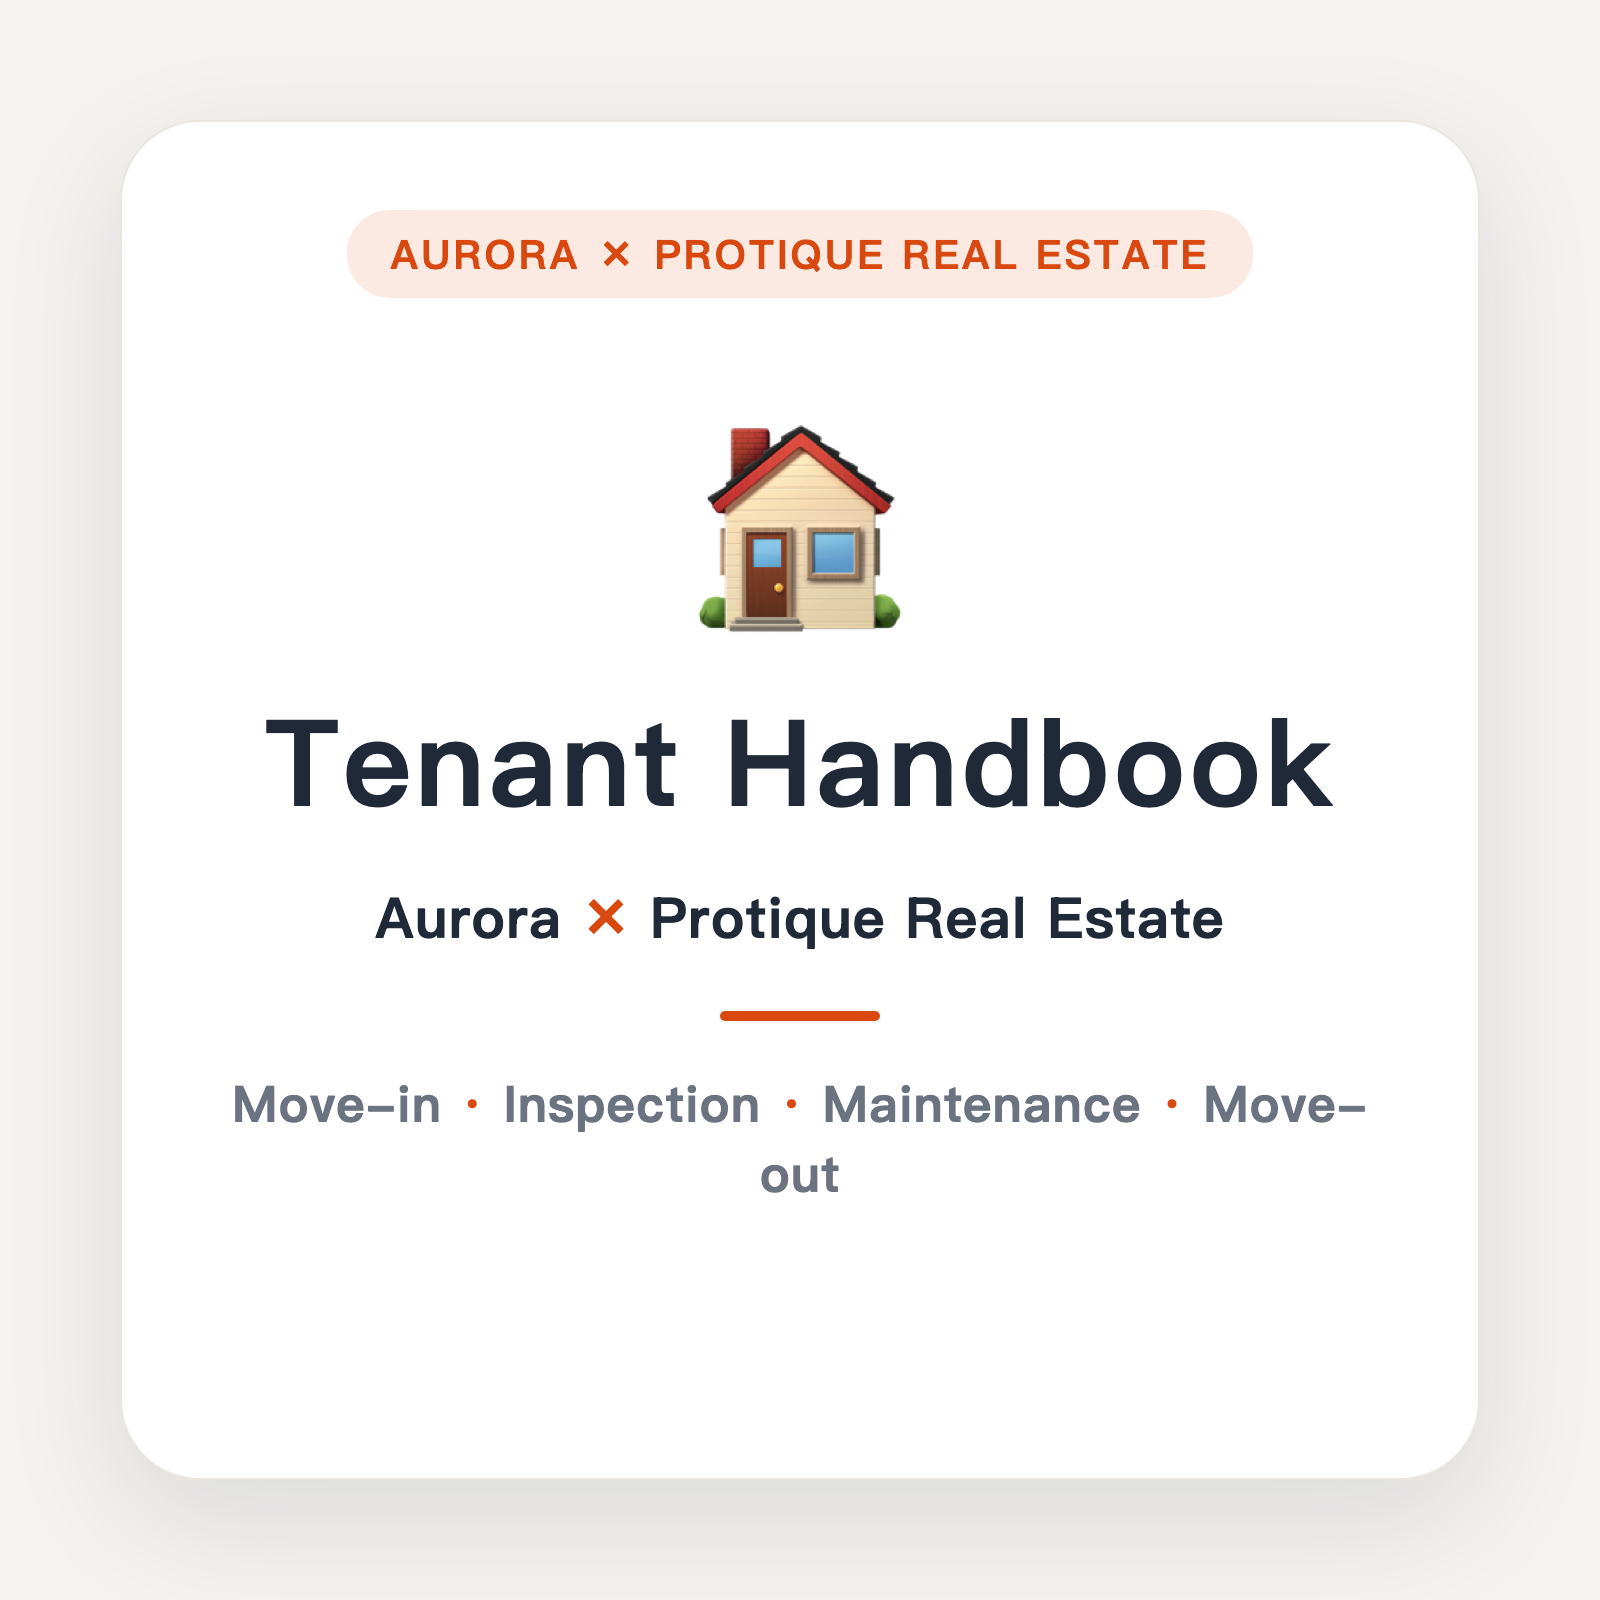
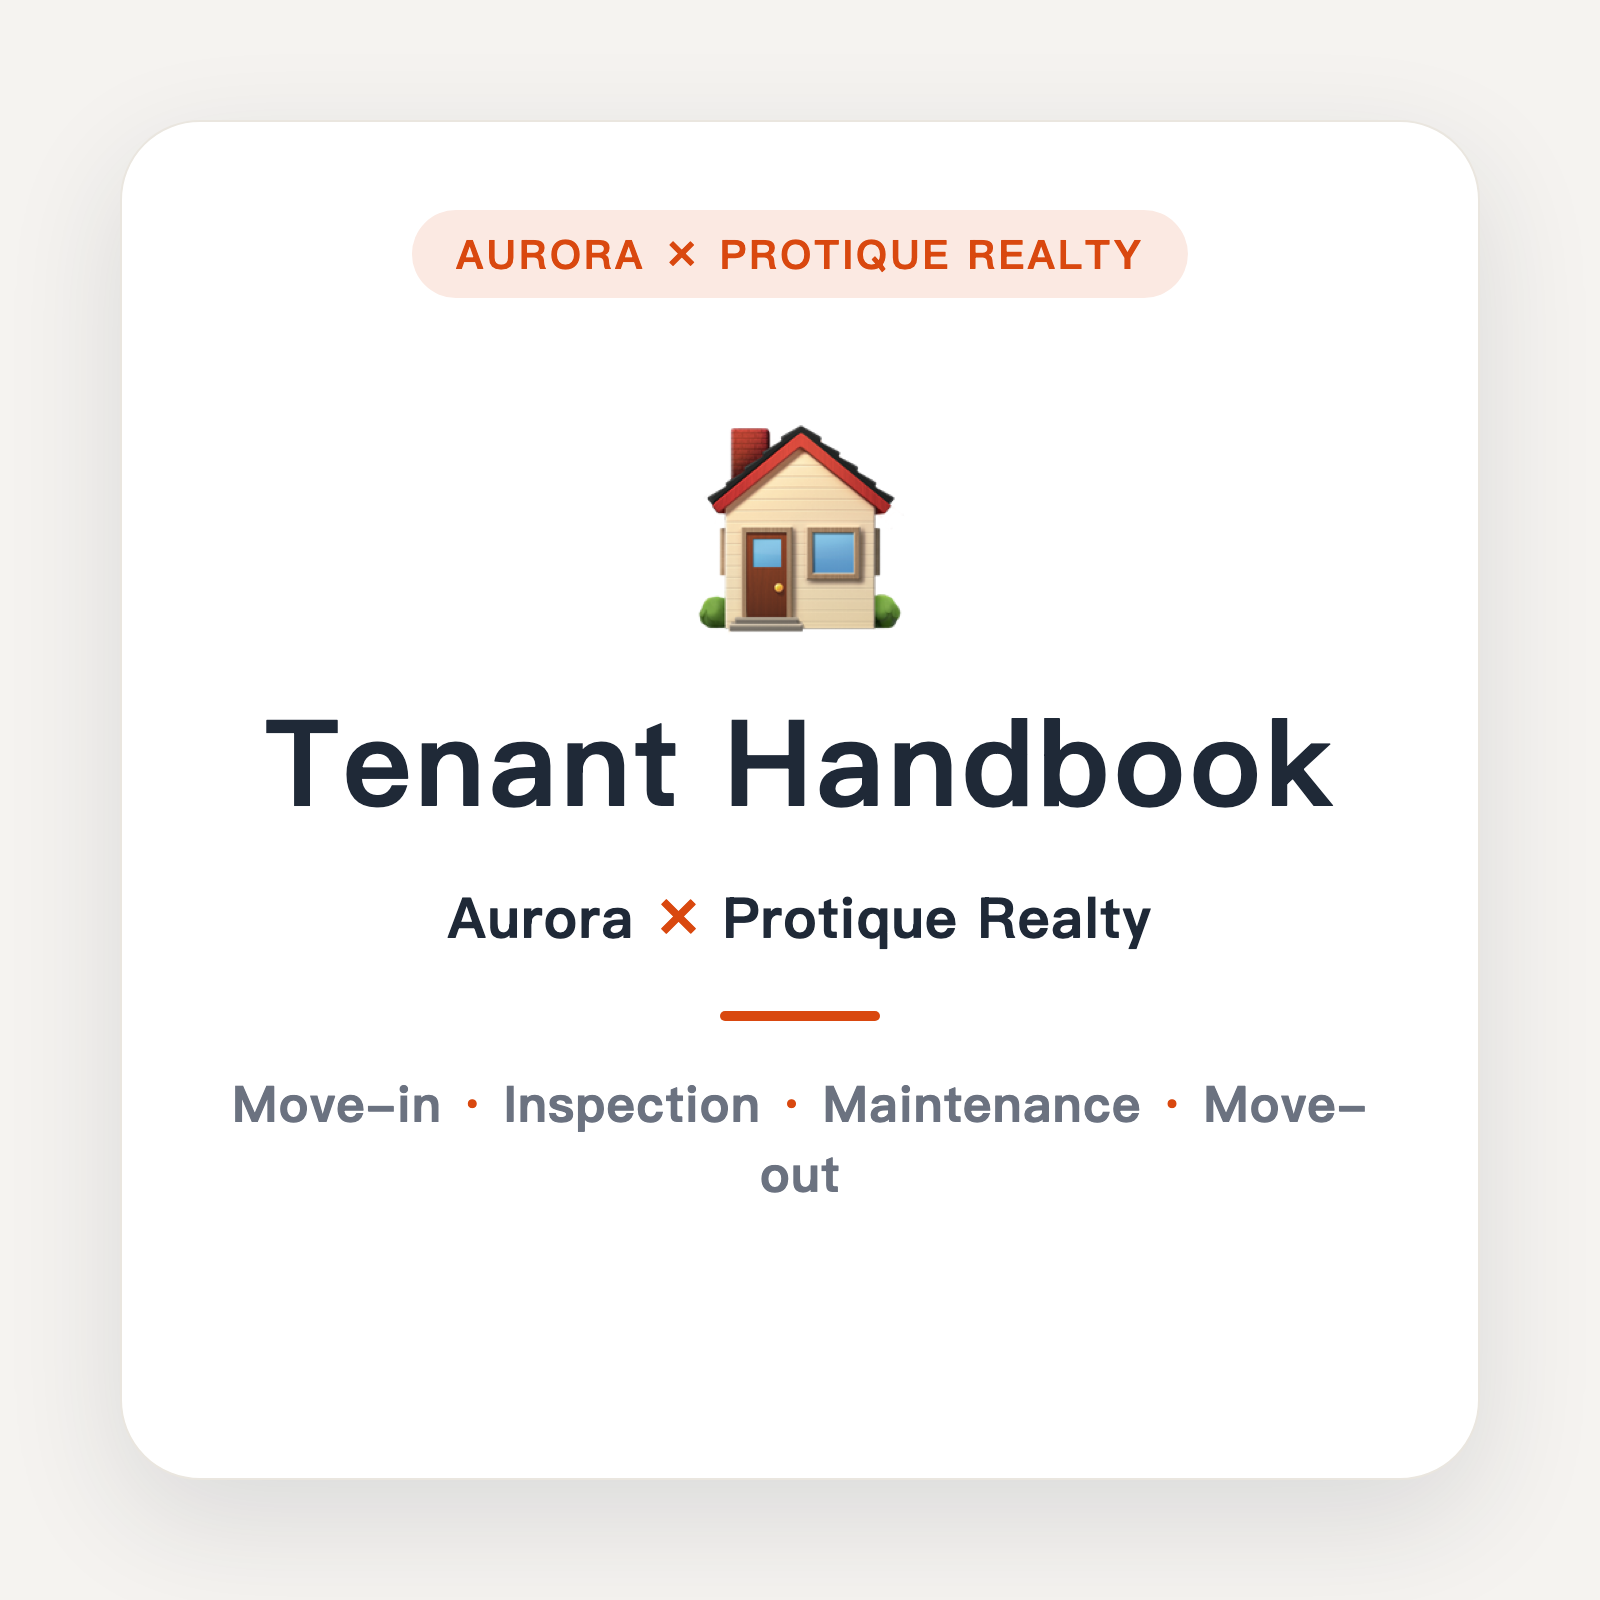
品牌名：Protique Real Estate → Protique Realty

Changed region(s): [[0.3438, 0.125, 0.7812, 0.1875], [0.2188, 0.5625, 0.7812, 0.5938], [0.2188, 0.125, 0.3125, 0.1875]]

diff --git a/en/index.html b/en/index.html
@@ -3,10 +3,10 @@
 <head>
 <meta charset="UTF-8">
 <meta name="viewport" content="width=device-width, initial-scale=1, viewport-fit=cover">
-<title>Aurora × Protique Real Estate Tenant Handbook · Aurora × Protique Real Estate Tenant Handbook</title>
+<title>Aurora × Protique Realty Tenant Handbook · Aurora × Protique Realty Tenant Handbook</title>
 <meta property="og:type" content="website">
-<meta property="og:site_name" content="Aurora × Protique Real Estate Tenant Handbook">
-<meta property="og:title" content="Aurora × Protique Real Estate Tenant Handbook">
+<meta property="og:site_name" content="Aurora × Protique Realty Tenant Handbook">
+<meta property="og:title" content="Aurora × Protique Realty Tenant Handbook">
 <meta property="og:description" content="Please read before moving in. Check here first, then contact your Property Manager.">
 <meta property="og:image" content="https://ashleykong99.github.io/tenant-handbook/assets/og-cover-en.png">
 <meta property="og:image:width" content="1600">
@@ -155,7 +155,7 @@ footer b{color:var(--ink)}
 <div class="langbar"><a href="../zh/index.html">中文</a></div>
 <div class="hero">
   <div class="kicker">TENANT HANDBOOK</div>
-  <h1>Aurora × Protique Real Estate<br>Tenant Handbook</h1>
+  <h1>Aurora × Protique Realty<br>Tenant Handbook</h1>
   <div class="sub">Please read before moving in. Check here first, then contact your Property Manager.</div>
 </div>
 <div class="search-wrap" data-empty="No matching answer found. Contact your Property Manager." data-header="Search results for "{}"" data-one="1 result" data-many="{} results" data-clear="Clear search">

diff --git a/en/contract.html b/en/contract.html
@@ -3,10 +3,10 @@
 <head>
 <meta charset="UTF-8">
 <meta name="viewport" content="width=device-width, initial-scale=1, viewport-fit=cover">
-<title>📝 Lease Changes, Transfers &amp; Breaking a Lease · Aurora × Protique Real Estate Tenant Handbook</title>
+<title>📝 Lease Changes, Transfers &amp; Breaking a Lease · Aurora × Protique Realty Tenant Handbook</title>
 <meta property="og:type" content="website">
-<meta property="og:site_name" content="Aurora × Protique Real Estate Tenant Handbook">
-<meta property="og:title" content="Lease Changes, Transfers &amp; Breaking a Lease · Aurora × Protique Real Estate Tenant Handbook">
+<meta property="og:site_name" content="Aurora × Protique Realty Tenant Handbook">
+<meta property="og:title" content="Lease Changes, Transfers &amp; Breaking a Lease · Aurora × Protique Realty Tenant Handbook">
 <meta property="og:description" content="Renewal, roommates, transfers, subletting, breaking a lease">
 <meta property="og:image" content="https://ashleykong99.github.io/tenant-handbook/assets/og-cover-en.png">
 <meta property="og:image:width" content="1600">

diff --git a/en/inspection.html b/en/inspection.html
@@ -3,10 +3,10 @@
 <head>
 <meta charset="UTF-8">
 <meta name="viewport" content="width=device-width, initial-scale=1, viewport-fit=cover">
-<title>🔍 Move-in Inspection · Aurora × Protique Real Estate Tenant Handbook</title>
+<title>🔍 Move-in Inspection · Aurora × Protique Realty Tenant Handbook</title>
 <meta property="og:type" content="website">
-<meta property="og:site_name" content="Aurora × Protique Real Estate Tenant Handbook">
-<meta property="og:title" content="Move-in Inspection · Aurora × Protique Real Estate Tenant Handbook">
+<meta property="og:site_name" content="Aurora × Protique Realty Tenant Handbook">
+<meta property="og:title" content="Move-in Inspection · Aurora × Protique Realty Tenant Handbook">
 <meta property="og:description" content="Furniture, cleaning, replacing furniture">
 <meta property="og:image" content="https://ashleykong99.github.io/tenant-handbook/assets/og-cover-en.png">
 <meta property="og:image:width" content="1600">

diff --git a/en/notice.html b/en/notice.html
@@ -3,10 +3,10 @@
 <head>
 <meta charset="UTF-8">
 <meta name="viewport" content="width=device-width, initial-scale=1, viewport-fit=cover">
-<title>📋 Move-in Guide · Aurora × Protique Real Estate Tenant Handbook</title>
+<title>📋 Move-in Guide · Aurora × Protique Realty Tenant Handbook</title>
 <meta property="og:type" content="website">
-<meta property="og:site_name" content="Aurora × Protique Real Estate Tenant Handbook">
-<meta property="og:title" content="Move-in Guide · Aurora × Protique Real Estate Tenant Handbook">
+<meta property="og:site_name" content="Aurora × Protique Realty Tenant Handbook">
+<meta property="og:title" content="Move-in Guide · Aurora × Protique Realty Tenant Handbook">
 <meta property="og:description" content="Front desk, access, parcels, facilities, moving, waste">
 <meta property="og:image" content="https://ashleykong99.github.io/tenant-handbook/assets/og-cover-en.png">
 <meta property="og:image:width" content="1600">

diff --git a/en/maintenance.html b/en/maintenance.html
@@ -3,10 +3,10 @@
 <head>
 <meta charset="UTF-8">
 <meta name="viewport" content="width=device-width, initial-scale=1, viewport-fit=cover">
-<title>🔧 Maintenance · Aurora × Protique Real Estate Tenant Handbook</title>
+<title>🔧 Maintenance · Aurora × Protique Realty Tenant Handbook</title>
 <meta property="og:type" content="website">
-<meta property="og:site_name" content="Aurora × Protique Real Estate Tenant Handbook">
-<meta property="og:title" content="Maintenance · Aurora × Protique Real Estate Tenant Handbook">
+<meta property="og:site_name" content="Aurora × Protique Realty Tenant Handbook">
+<meta property="og:title" content="Maintenance · Aurora × Protique Realty Tenant Handbook">
 <meta property="og:description" content="Door locks, appliances, plumbing &amp; electrical">
 <meta property="og:image" content="https://ashleykong99.github.io/tenant-handbook/assets/og-cover-en.png">
 <meta property="og:image:width" content="1600">

diff --git a/en/emergency.html b/en/emergency.html
@@ -3,10 +3,10 @@
 <head>
 <meta charset="UTF-8">
 <meta name="viewport" content="width=device-width, initial-scale=1, viewport-fit=cover">
-<title>🚨 Emergency · Aurora × Protique Real Estate Tenant Handbook</title>
+<title>🚨 Emergency · Aurora × Protique Realty Tenant Handbook</title>
 <meta property="og:type" content="website">
-<meta property="og:site_name" content="Aurora × Protique Real Estate Tenant Handbook">
-<meta property="og:title" content="Emergency · Aurora × Protique Real Estate Tenant Handbook">
+<meta property="og:site_name" content="Aurora × Protique Realty Tenant Handbook">
+<meta property="og:title" content="Emergency · Aurora × Protique Realty Tenant Handbook">
 <meta property="og:description" content="Lost keys, power outage, fire, urgent contacts">
 <meta property="og:image" content="https://ashleykong99.github.io/tenant-handbook/assets/og-cover-en.png">
 <meta property="og:image:width" content="1600">

diff --git a/en/move-out.html b/en/move-out.html
@@ -3,10 +3,10 @@
 <head>
 <meta charset="UTF-8">
 <meta name="viewport" content="width=device-width, initial-scale=1, viewport-fit=cover">
-<title>🔑 Moving Out · Aurora × Protique Real Estate Tenant Handbook</title>
+<title>🔑 Moving Out · Aurora × Protique Realty Tenant Handbook</title>
 <meta property="og:type" content="website">
-<meta property="og:site_name" content="Aurora × Protique Real Estate Tenant Handbook">
-<meta property="og:title" content="Moving Out · Aurora × Protique Real Estate Tenant Handbook">
+<meta property="og:site_name" content="Aurora × Protique Realty Tenant Handbook">
+<meta property="og:title" content="Moving Out · Aurora × Protique Realty Tenant Handbook">
 <meta property="og:description" content="Move-out process, bond refund">
 <meta property="og:image" content="https://ashleykong99.github.io/tenant-handbook/assets/og-cover-en.png">
 <meta property="og:image:width" content="1600">

diff --git a/index.html b/index.html
@@ -6,7 +6,7 @@
 <title>租客使用手册 · Tenant Handbook</title>
 <meta property="og:type" content="website">
 <meta property="og:title" content="租客使用手册 · Tenant Handbook">
-<meta property="og:description" content="Aurora × Protique Real Estate">
+<meta property="og:description" content="Aurora × Protique Realty">
 <meta property="og:image" content="https://ashleykong99.github.io/tenant-handbook/assets/og-cover.png">
 <meta property="og:image:width" content="1600">
 <meta property="og:image:height" content="1600">
@@ -34,7 +34,7 @@ h1{font-size:32px;font-weight:800;margin-top:16px;letter-spacing:1px}
 </head>
 <body>
 <div class="wrap">
-  <div class="badge">AURORA × PROTIQUE REAL ESTATE</div>
+  <div class="badge">AURORA × PROTIQUE REALTY</div>
   <div class="emoji">🏠</div>
   <h1>租客使用手册</h1>
   <div class="en">Tenant Handbook</div>

diff --git a/build.py b/build.py
@@ -422,7 +422,7 @@ def build_chooser(og_image):
 <title>租客使用手册 · Tenant Handbook</title>
 <meta property="og:type" content="website">
 <meta property="og:title" content="租客使用手册 · Tenant Handbook">
-<meta property="og:description" content="Aurora × Protique Real Estate">
+<meta property="og:description" content="Aurora × Protique Realty">
 <meta property="og:image" content="__OG__">
 <meta property="og:image:width" content="1600">
 <meta property="og:image:height" content="1600">
@@ -450,7 +450,7 @@ h1{font-size:32px;font-weight:800;margin-top:16px;letter-spacing:1px}
 </head>
 <body>
 <div class="wrap">
-  <div class="badge">AURORA × PROTIQUE REAL ESTATE</div>
+  <div class="badge">AURORA × PROTIQUE REALTY</div>
   <div class="emoji">🏠</div>
   <h1>租客使用手册</h1>
   <div class="en">Tenant Handbook</div>

diff --git a/content_en.py b/content_en.py
@@ -713,7 +713,7 @@ CATEGORIES = [
 ]
 
 FOOTER = "Please contact your Property Manager if you have any questions"
-SITE_BRAND = "Aurora × Protique Real Estate"
+SITE_BRAND = "Aurora × Protique Realty"
 SITE_NAME = "Tenant Handbook"
 SITE_TITLE = SITE_BRAND + " " + SITE_NAME
 SITE_SUB = "Please read before moving in. Check here first, then contact your Property Manager."
